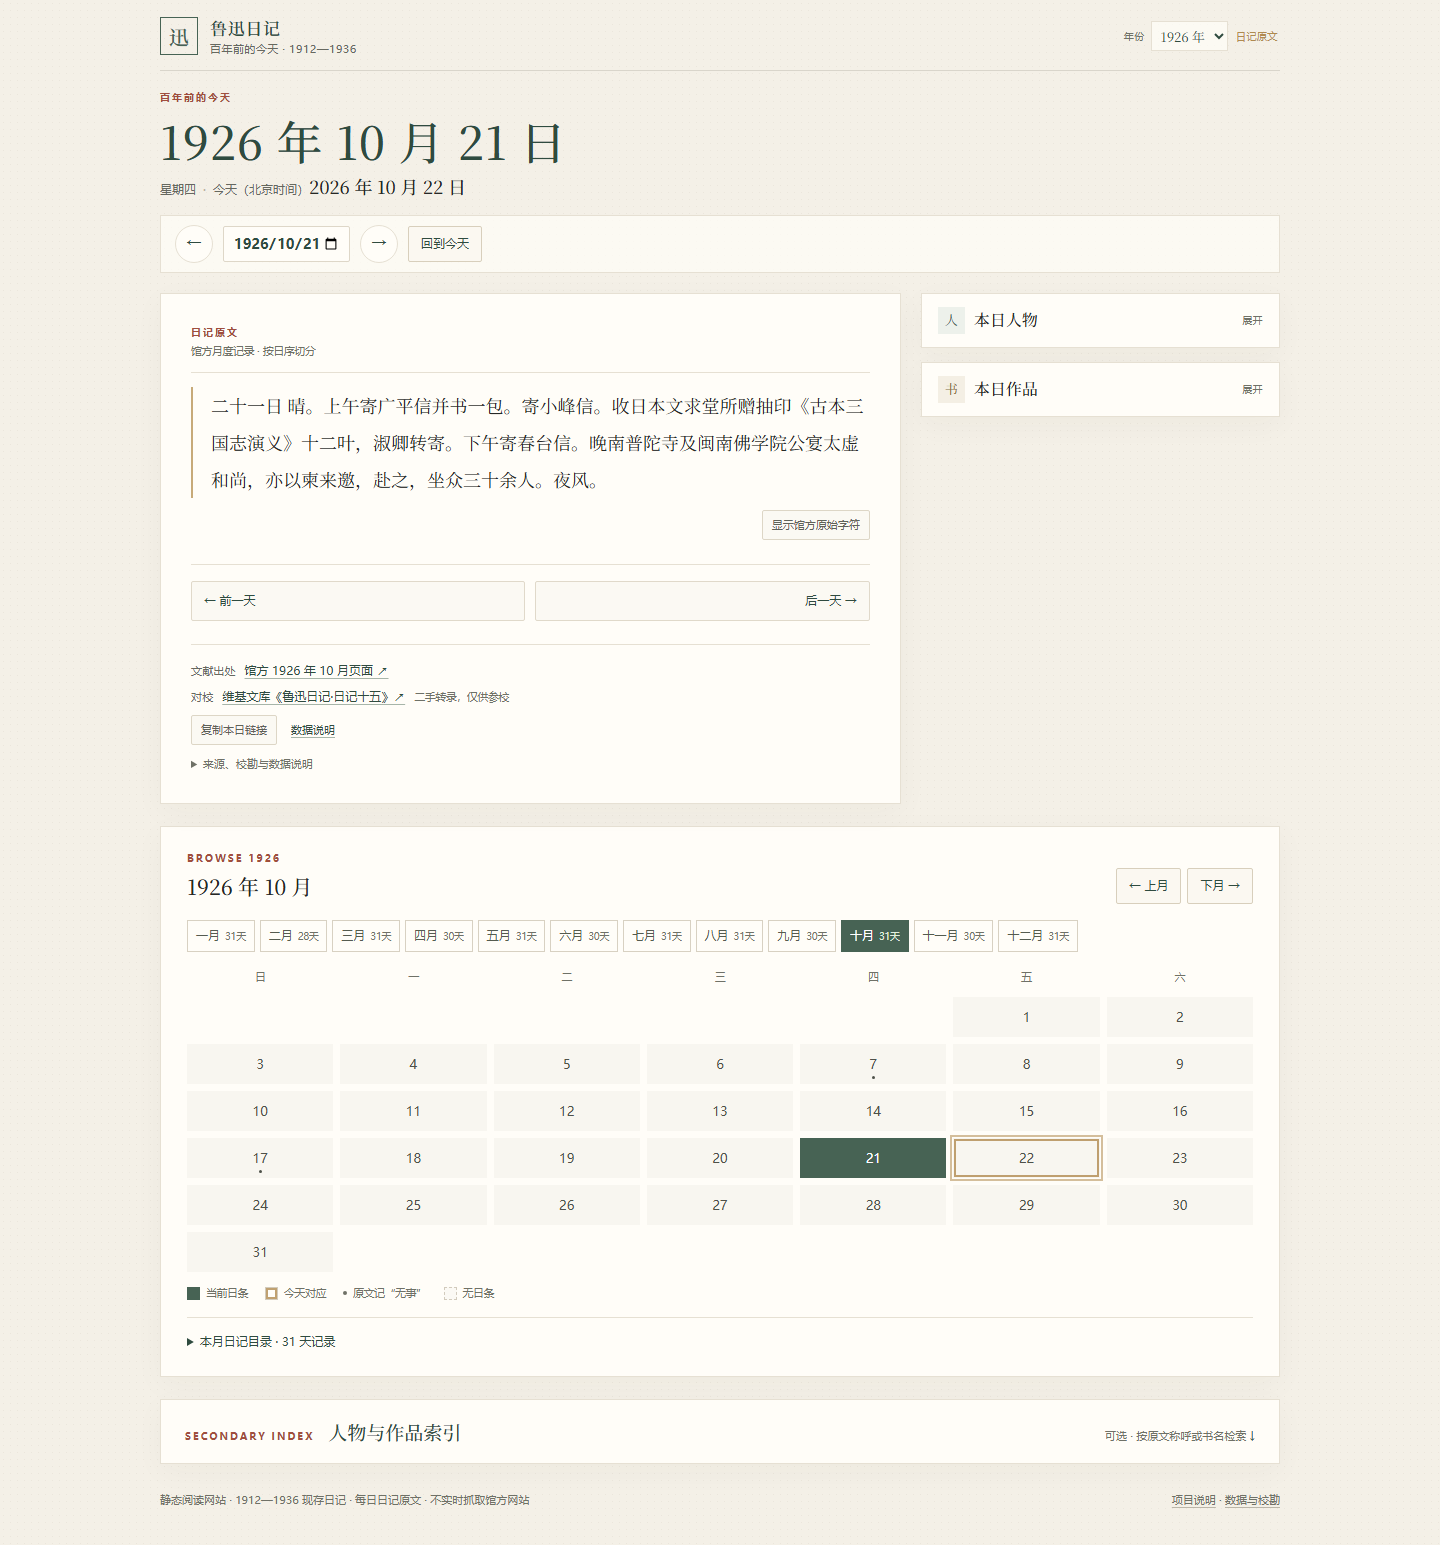
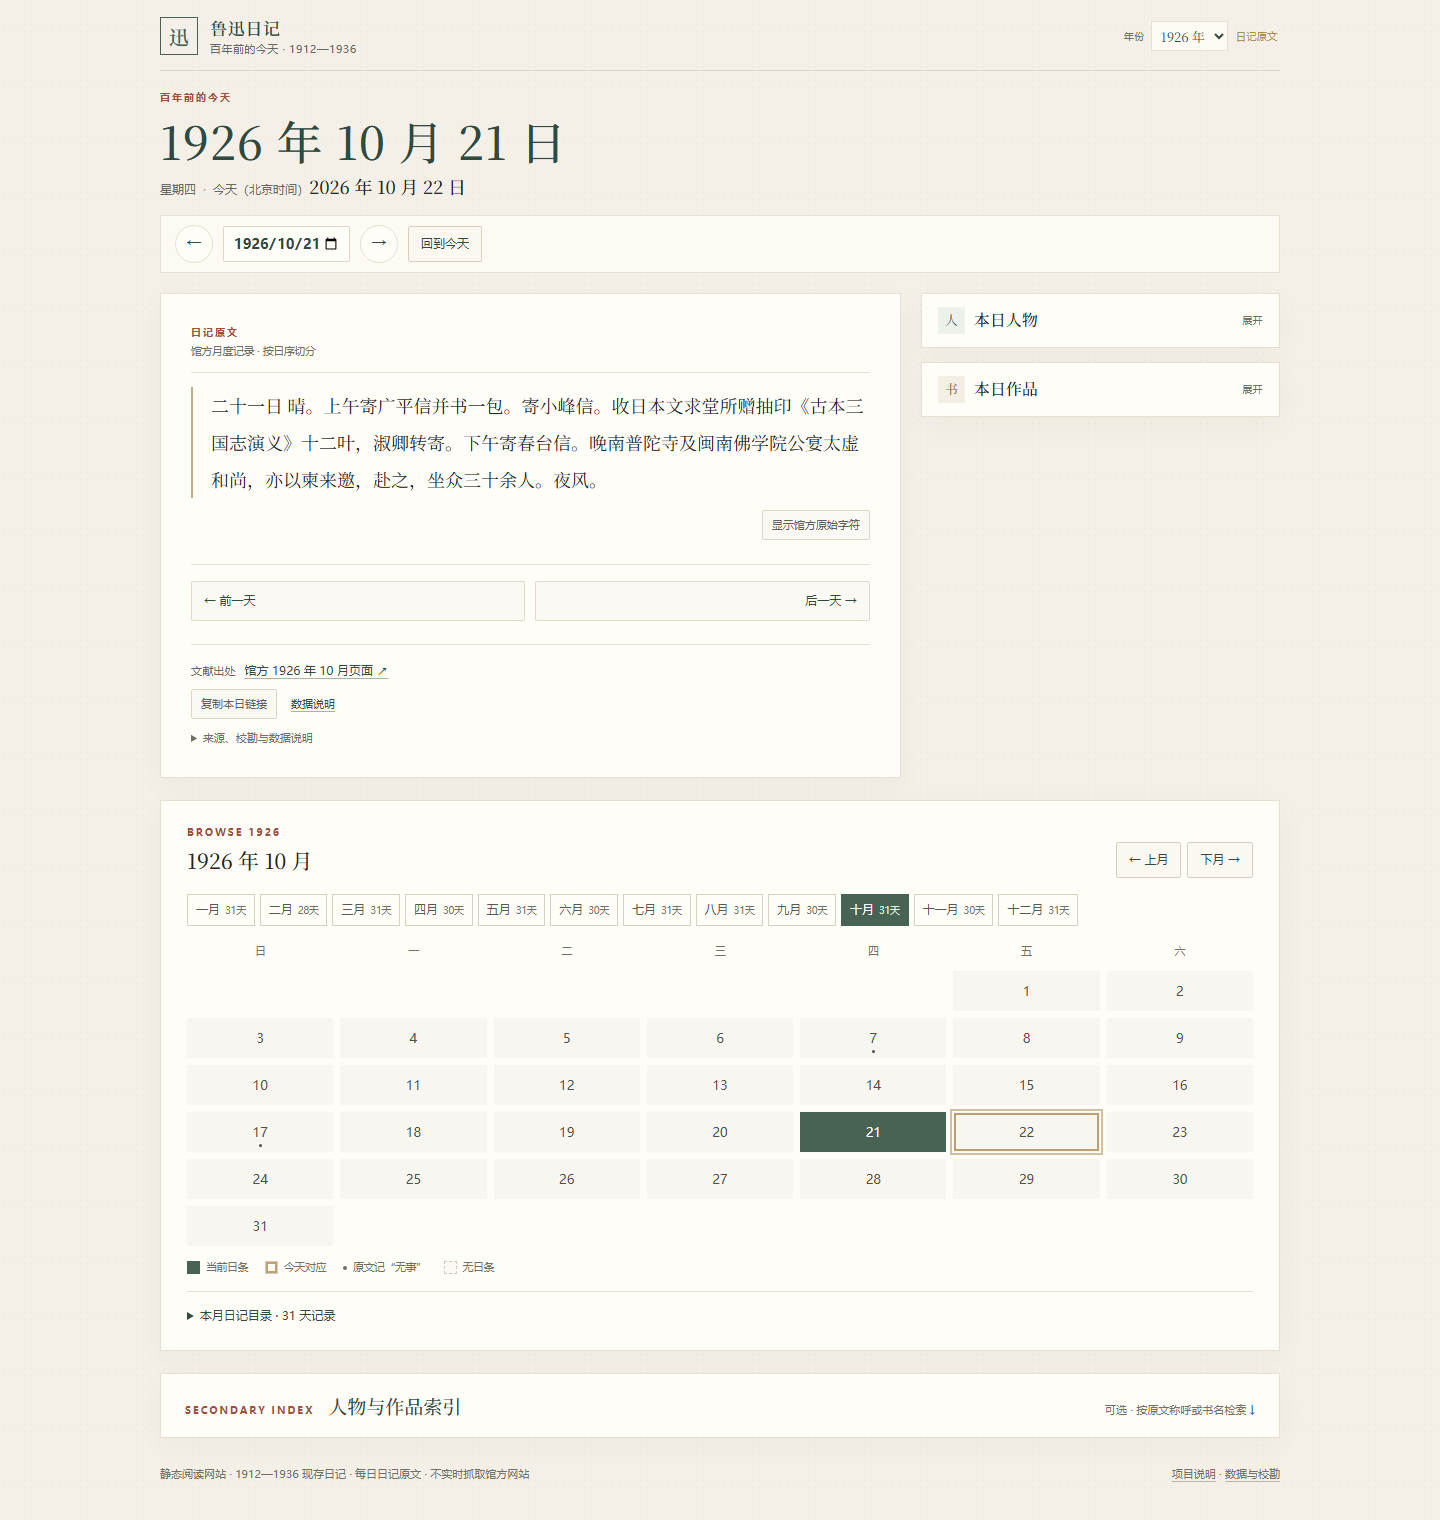
Remove wikisource collation row

diff --git a/index.html b/index.html
@@ -78,7 +78,6 @@
 
         <footer class="entry-source">
           <div class="source-line"><span class="source-label">文献出处</span><a id="official-source" href="http://www.luxunmuseum.com.cn/cx/" target="_blank" rel="noopener">北京鲁迅博物馆资料查询系统 ↗</a></div>
-          <div id="wikisource-line" class="source-line"><span class="source-label">对校</span><a id="wikisource-source" href="https://zh.wikisource.org/wiki/魯迅日記/日記十五" target="_blank" rel="noopener">维基文库《鲁迅日记·日记十五》↗</a><span class="source-hint">二手转录，仅供参校</span></div>
           <div class="entry-actions">
             <button id="copy-link" class="text-tool" type="button">复制本日链接</button>
             <a href="DATA_AUDIT.md">数据说明</a>

diff --git a/app.js b/app.js
@@ -3,7 +3,6 @@
 
   var DATA_INDEX_URL = "data/years/index.json";
   var DATA_YEAR_URL = "data/years/";
-  var WIKISOURCE_URL = "https://zh.wikisource.org/wiki/魯迅日記";
   var MONTH_NAMES = ["一", "二", "三", "四", "五", "六", "七", "八", "九", "十", "十一", "十二"];
   var WEEKDAYS = ["星期日", "星期一", "星期二", "星期三", "星期四", "星期五", "星期六"];
   var DAY_MS = 86400000;
@@ -780,8 +779,6 @@
       official.href = source.url;
       official.textContent = "馆方 " + state.selectedYear + " 年 " + entry.month + " 月页面 ↗";
     }
-    var wikisourceLine = $("wikisource-line");
-    if (wikisourceLine) wikisourceLine.hidden = state.selectedYear !== 1926;
   }
 
   function renderAppendix(entry) {

diff --git a/README.md b/README.md
@@ -68,7 +68,7 @@ GitHub Pages 已部署，完整日记数据已包含在本仓库。
 - 无构建工具、无 npm 依赖、无后端
 - 按年份懒加载 JSON 数据
 - 所有资源使用相对路径，直接部署在 GitHub Pages 的 `/luxun-diary/` 子路径下
-- 不调用第三方 API；外部链接仅为馆方资料页面和维基文库对校页面
+- 不调用第三方 API；外部链接仅为馆方资料页面
 
 ```text
 index.html
